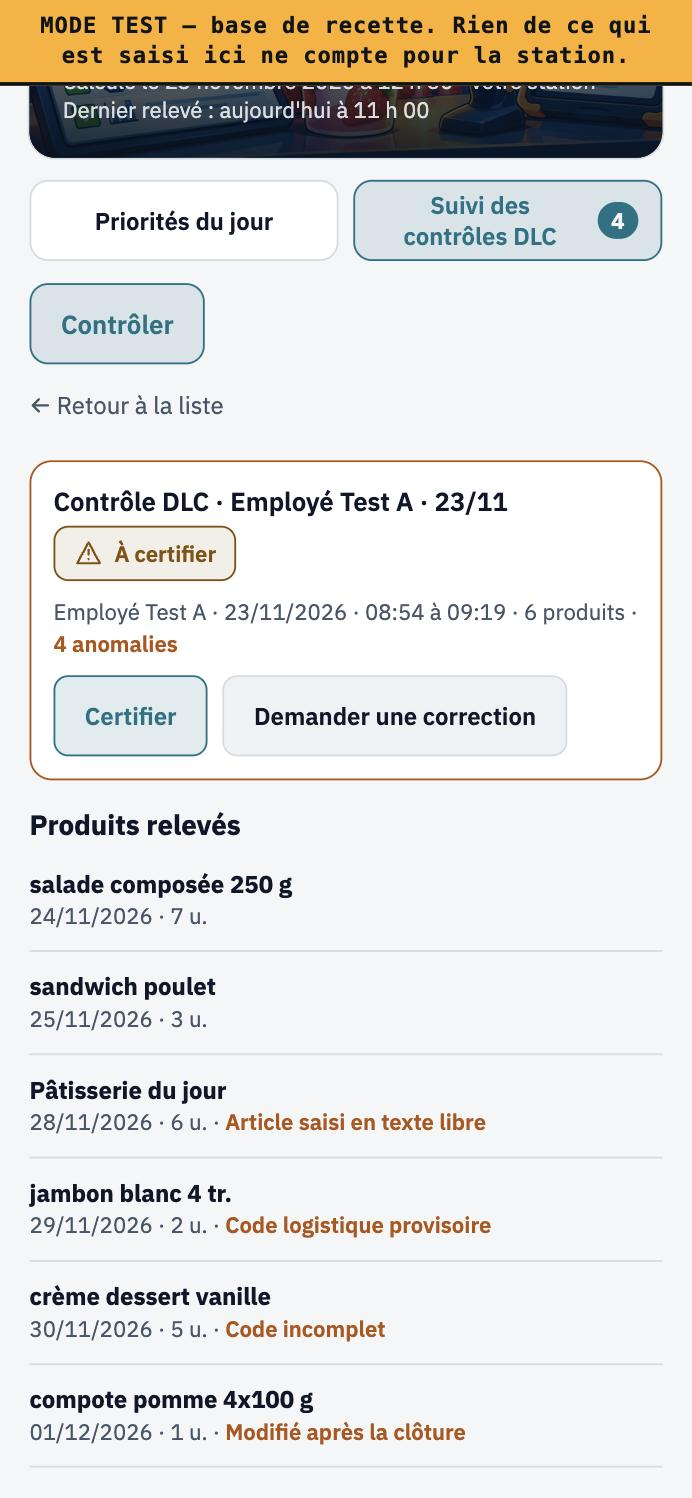
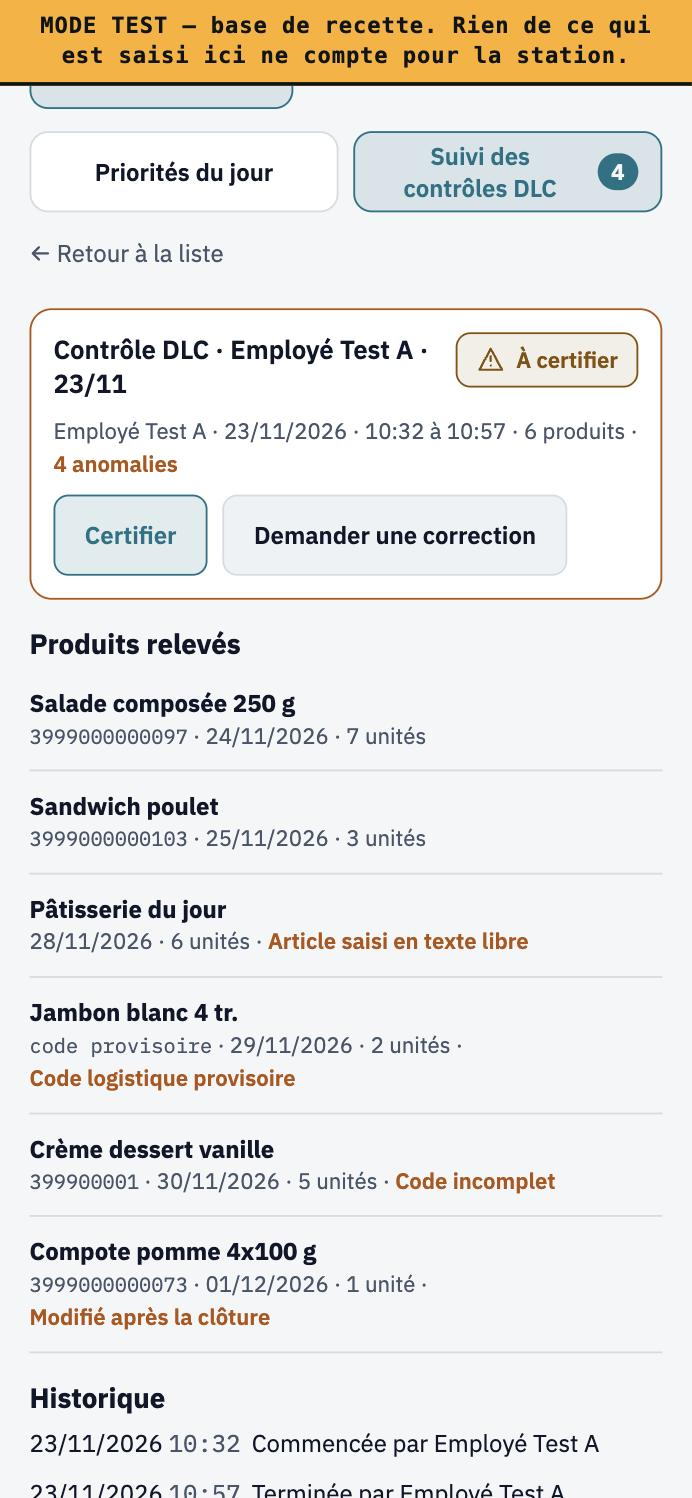
Dates courtes lot 3 : six corrections Guardian 7108245221, captures 375 reprises

diff --git a/NEXUS-Dates-Courtes-v1.html b/NEXUS-Dates-Courtes-v1.html
@@ -148,10 +148,13 @@
   .sv-carte.a-certifier{border-color:var(--amber)}
   .sv-ouvrir{all:unset;display:flex;flex-direction:column;gap:4px;cursor:pointer;min-height:44px;box-sizing:border-box}
   .sv-ouvrir:focus-visible{outline:2px solid var(--cyan);outline-offset:2px}
-  .sv-ligne1{display:flex;flex-wrap:wrap;justify-content:space-between;gap:4px 8px;align-items:center}
+  .sv-ligne1{display:flex;flex-wrap:nowrap;justify-content:space-between;gap:8px;align-items:flex-start}
+  .sv-ligne1>.sv-nom{flex:1 1 auto;min-width:0}
+  .sv-ligne1>:not(.sv-nom){flex:none}
   .sv-nom{font-weight:600;font-size:14px;overflow-wrap:anywhere}
   .sv-meta{font-size:12px;color:var(--text-mid);line-height:1.45}
-  .sv-meta .num{font-family:var(--mono)}
+  .sv-meta .num,.sv-code{font-family:var(--mono)}
+  .sv-code{color:var(--text-mid);font-size:11px}
   .sv-btn{min-height:44px;padding:0 16px;border-radius:8px;border:1px solid var(--cyan);background:var(--cyan-dim);color:var(--cyan);font:600 13px var(--sans);cursor:pointer}
   .sv-btn.second{border-color:var(--hairline);background:var(--panel-raised);color:var(--text)}
   .sv-btn[disabled]{opacity:.55;cursor:not-allowed}
@@ -187,11 +190,11 @@
       <p class="sous" id="sousTitre">Lecture réservée à la gestion</p>
     </div>
   </header>
+  <p class="lien-controle"><a href="NEXUS-Dates-Courtes-Releve-v1.html">Faire un contrôle</a></p>
   <div class="segments" id="segments" role="group" aria-label="Vue">
     <button type="button" id="segPrio" data-vue="priorites" aria-pressed="true">Priorités du jour</button>
     <button type="button" id="segSuivi" data-vue="suivi" aria-pressed="false">Suivi des contrôles DLC <span class="cpt" id="cptSuivi" hidden aria-label="tournées à certifier"></span></button>
   </div>
-  <p class="lien-controle"><a href="NEXUS-Dates-Courtes-Releve-v1.html">Contrôler</a></p>
   <main id="contenu" aria-live="polite">
     <div class="squelette" aria-label="Chargement"></div><div class="squelette"></div><div class="squelette"></div>
   </main>
@@ -453,6 +456,7 @@
   };
   const ANOM = {code_incomplet:'Code incomplet', code_logistique_provisoire:'Code logistique provisoire', article_texte_libre:'Article saisi en texte libre', modifiee_apres_cloture:'Modifié après la clôture'};
   const anomN = n => n === 1 ? '1 anomalie' : nb(n) + ' anomalies';
+  const codeSv = r => r.anomalies.includes('code_logistique_provisoire') ? '<span class="sv-code">code provisoire</span> · ' : (r.ean ? '<span class="sv-code">' + esc(r.ean) + '</span> · ' : '');
   const badgeSv = e => { const x = ETATS_SV[e] || {niv:null, lib:String(e || '')}; const B = window.NexusBadgeEtat; return B && x.niv ? B.gravite(x.niv, {libelle:x.lib}) : '<span class="pastille">' + esc(x.lib) + '</span>'; };
   const jourMq = () => new Intl.DateTimeFormat('fr-CA', {timeZone:'America/Martinique', year:'numeric', month:'2-digit', day:'2-digit'}).format(new Date());
   function plageSv(n){
@@ -494,7 +498,8 @@
       '<button type="button" class="sv-ouvrir" data-ouvrir="' + esc(t.id) + '" aria-label="Voir le détail : ' + esc(t.nom) + '">' +
       '<span class="sv-ligne1"><span class="sv-nom">' + esc(t.nom) + '</span>' + badgeSv(t.etat) + '</span>' +
       '<span class="sv-meta">' + esc(t.auteur || 'Auteur inconnu') + ' · ' + dateFr(t.jour) + ' · ' + horaire + ' · <span class="num">' + nb(t.produits) + '</span> ' + (t.produits > 1 ? 'produits' : 'produit') + an + '</span></button>';
-    if (aCert) h += SV.conf === t.id ? blocConfirmation(t.id) : '<div class="sv-actions"><button type="button" class="sv-btn" data-certifier="' + esc(t.id) + '">Certifier</button></div>';
+    if (aCert && t.anomalies > 0) h += '<div class="sv-actions"><button type="button" class="sv-btn" data-ouvrir="' + esc(t.id) + '">Voir ' + (t.anomalies > 1 ? 'les ' + nb(t.anomalies) + ' anomalies' : 'l\'anomalie') + '</button></div>';
+    else if (aCert) h += SV.conf === t.id ? blocConfirmation(t.id) : '<div class="sv-actions"><button type="button" class="sv-btn" data-certifier="' + esc(t.id) + '">Certifier</button></div>';
     return h + '</div>';
   }
   function blocConfirmation(id){
@@ -566,12 +571,12 @@
       const raison = !nCoches ? 'Cochez au moins un produit.' : (!motifOk ? 'Indiquez le motif de la demande.' : '');
       h += '<h2>Demander une correction</h2><p class="aide">Cochez les produits à reprendre. Ceux qui présentent une anomalie le sont déjà.</p>' +
         '<div class="sv-actions" style="margin-top:8px"><button type="button" class="sv-btn second" data-tout>Tout cocher</button></div><div>' +
-        prods.map(r => '<div class="sv-prod"><label><input type="checkbox" data-coche="' + esc(r.id) + '"' + (corr.coches.has(r.id) ? ' checked' : '') + '><span><b>' + esc(r.libelle || 'Produit non identifié') + '</b><br><span class="sv-meta">' + dateFr(r.date_limite) + ' · <span class="num">' + nb(r.quantite) + '</span> u.' + (r.anomalies.length ? ' · <span class="sv-anom">' + r.anomalies.map(c => esc(ANOM[c] || '')).filter(Boolean).join(', ') + '</span>' : '') + '</span></span></label></div>').join('') + '</div>' +
+        prods.map(r => '<div class="sv-prod"><label><input type="checkbox" data-coche="' + esc(r.id) + '"' + (corr.coches.has(r.id) ? ' checked' : '') + '><span><b>' + esc(r.libelle || 'Produit non identifié') + '</b><br><span class="sv-meta">' + codeSv(r) + dateFr(r.date_limite) + ' · <span class="num">' + nb(r.quantite) + '</span> ' + (r.quantite > 1 ? 'unités' : 'unité') + (r.anomalies.length ? ' · <span class="sv-anom">' + r.anomalies.map(c => esc(ANOM[c] || '')).filter(Boolean).join(', ') + '</span>' : '') + '</span></span></label></div>').join('') + '</div>' +
         '<div class="sv-form"><label for="svMotif"><b>Motif de la demande</b></label><textarea id="svMotif" maxlength="500" placeholder="Que faut-il reprendre ?">' + esc(corr.motif) + '</textarea>' +
         '<div class="sv-actions"><button type="button" class="sv-btn" data-envoyer' + (raison || SV.occupe ? ' disabled' : '') + '>Envoyer la demande</button><button type="button" class="sv-btn second" data-annuler-corr>Annuler</button>' + (raison ? '<span class="sv-raison" id="svRaison">' + raison + '</span>' : '') + '</div></div>';
     } else {
       const prods = d.produits || [];
-      h += '<h2>Produits relevés</h2>' + (prods.length ? prods.map(r => '<div class="sv-prod"><span><b>' + esc(r.libelle || 'Produit non identifié') + '</b><br><span class="sv-meta">' + dateFr(r.date_limite) + ' · <span class="num">' + nb(r.quantite) + '</span> u.' + (r.anomalies.length ? ' · <span class="sv-anom">' + r.anomalies.map(c => esc(ANOM[c] || '')).filter(Boolean).join(', ') + '</span>' : '') + '</span></span></div>').join('') : '<p class="aide">Aucun produit relevé.</p>');
+      h += '<h2>Produits relevés</h2>' + (prods.length ? prods.map(r => '<div class="sv-prod"><span><b>' + esc(r.libelle || 'Produit non identifié') + '</b><br><span class="sv-meta">' + codeSv(r) + dateFr(r.date_limite) + ' · <span class="num">' + nb(r.quantite) + '</span> ' + (r.quantite > 1 ? 'unités' : 'unité') + (r.anomalies.length ? ' · <span class="sv-anom">' + r.anomalies.map(c => esc(ANOM[c] || '')).filter(Boolean).join(', ') + '</span>' : '') + '</span></span></div>').join('') : '<p class="aide">Aucun produit relevé.</p>');
       const sans = (d.anomalies_sans_produit || []).map(c => ANOM[c]).filter(Boolean);
       if (sans.length) h += '<p class="aide" style="margin-top:8px">Autres anomalies : ' + sans.map(esc).join(', ') + '.</p>';
     }

diff --git a/test_dates_courtes_suivi_lot3.js b/test_dates_courtes_suivi_lot3.js
@@ -13,9 +13,10 @@ const lot3 = page.slice(page.indexOf('/* Lot 3'), page.indexOf('</style>'));
 const has = (s, r) => (r instanceof RegExp ? r.test(s) : s.includes(r));
 
 t('le script de la page est syntaxiquement valide', () => { new Function(js); });
-t('sélecteur à deux segments sous l\'en-tête, Priorités du jour actif par défaut', () => {
+t('lien de contrôle puis sélecteur à deux segments sous l\'en-tête, Priorités du jour actif par défaut', () => {
   const i = page.indexOf('</header>'), j = page.indexOf('id="segments"'), k = page.indexOf('class="lien-controle"');
-  assert.ok(i > 0 && j > i && k > j, 'ordre header, segments, lien');
+  assert.ok(i > 0 && k > i && j > k, 'ordre header, lien « Faire un contrôle », segments');
+  assert.ok(page.includes('>Faire un contrôle<'));
   assert.ok(/id="segPrio"[^>]*aria-pressed="true"/.test(page) && /id="segSuivi"[^>]*aria-pressed="false"/.test(page));
   assert.ok(page.includes('>Priorités du jour<') && page.includes('Suivi des contrôles DLC <span'));
 });
@@ -106,3 +107,9 @@ t('migration : lecture seule, security invoker, aucun octroi sur table, calculs 
   assert.ok(!/dates_courtes_prevention_pertes/.test(mig.replace(/--.*$/gm, '')));
 });
 console.log(n + '/' + n);
+
+t('liste : Certifier seulement sans anomalie, sinon « Voir les N anomalies » ; détail : code et unités en toutes lettres', () => {
+  assert.ok(/aCert && t\.anomalies > 0/.test(js) && js.includes("'l\\'anomalie'") && js.includes("' anomalies'"));
+  assert.ok(js.includes('code provisoire') && /sv-code/.test(page));
+  assert.ok(js.includes("'unités' : 'unité'") && !/ u\.'/.test(js.slice(js.indexOf('function ligneSv'))));
+});
